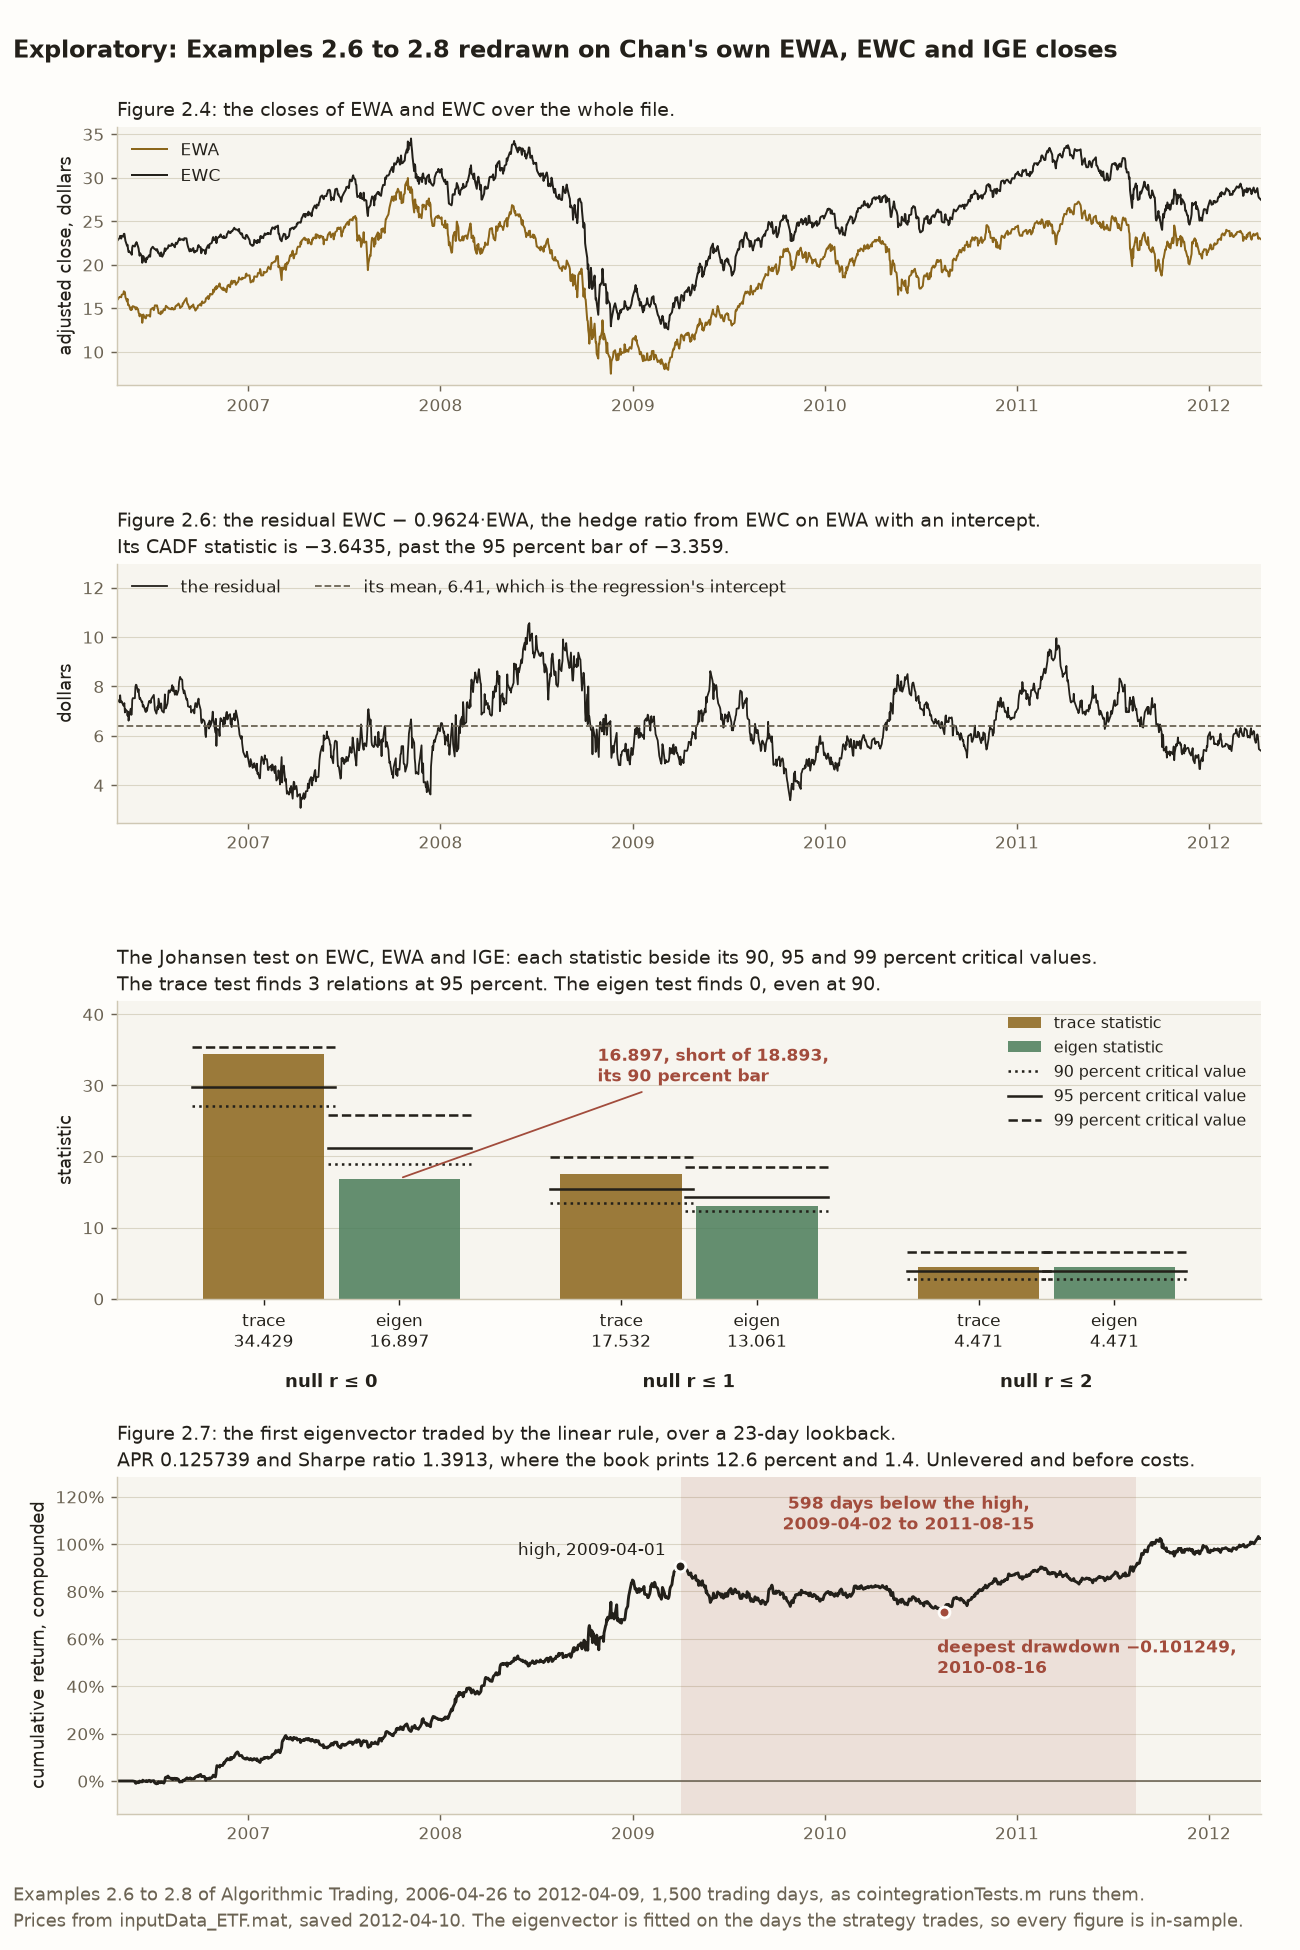
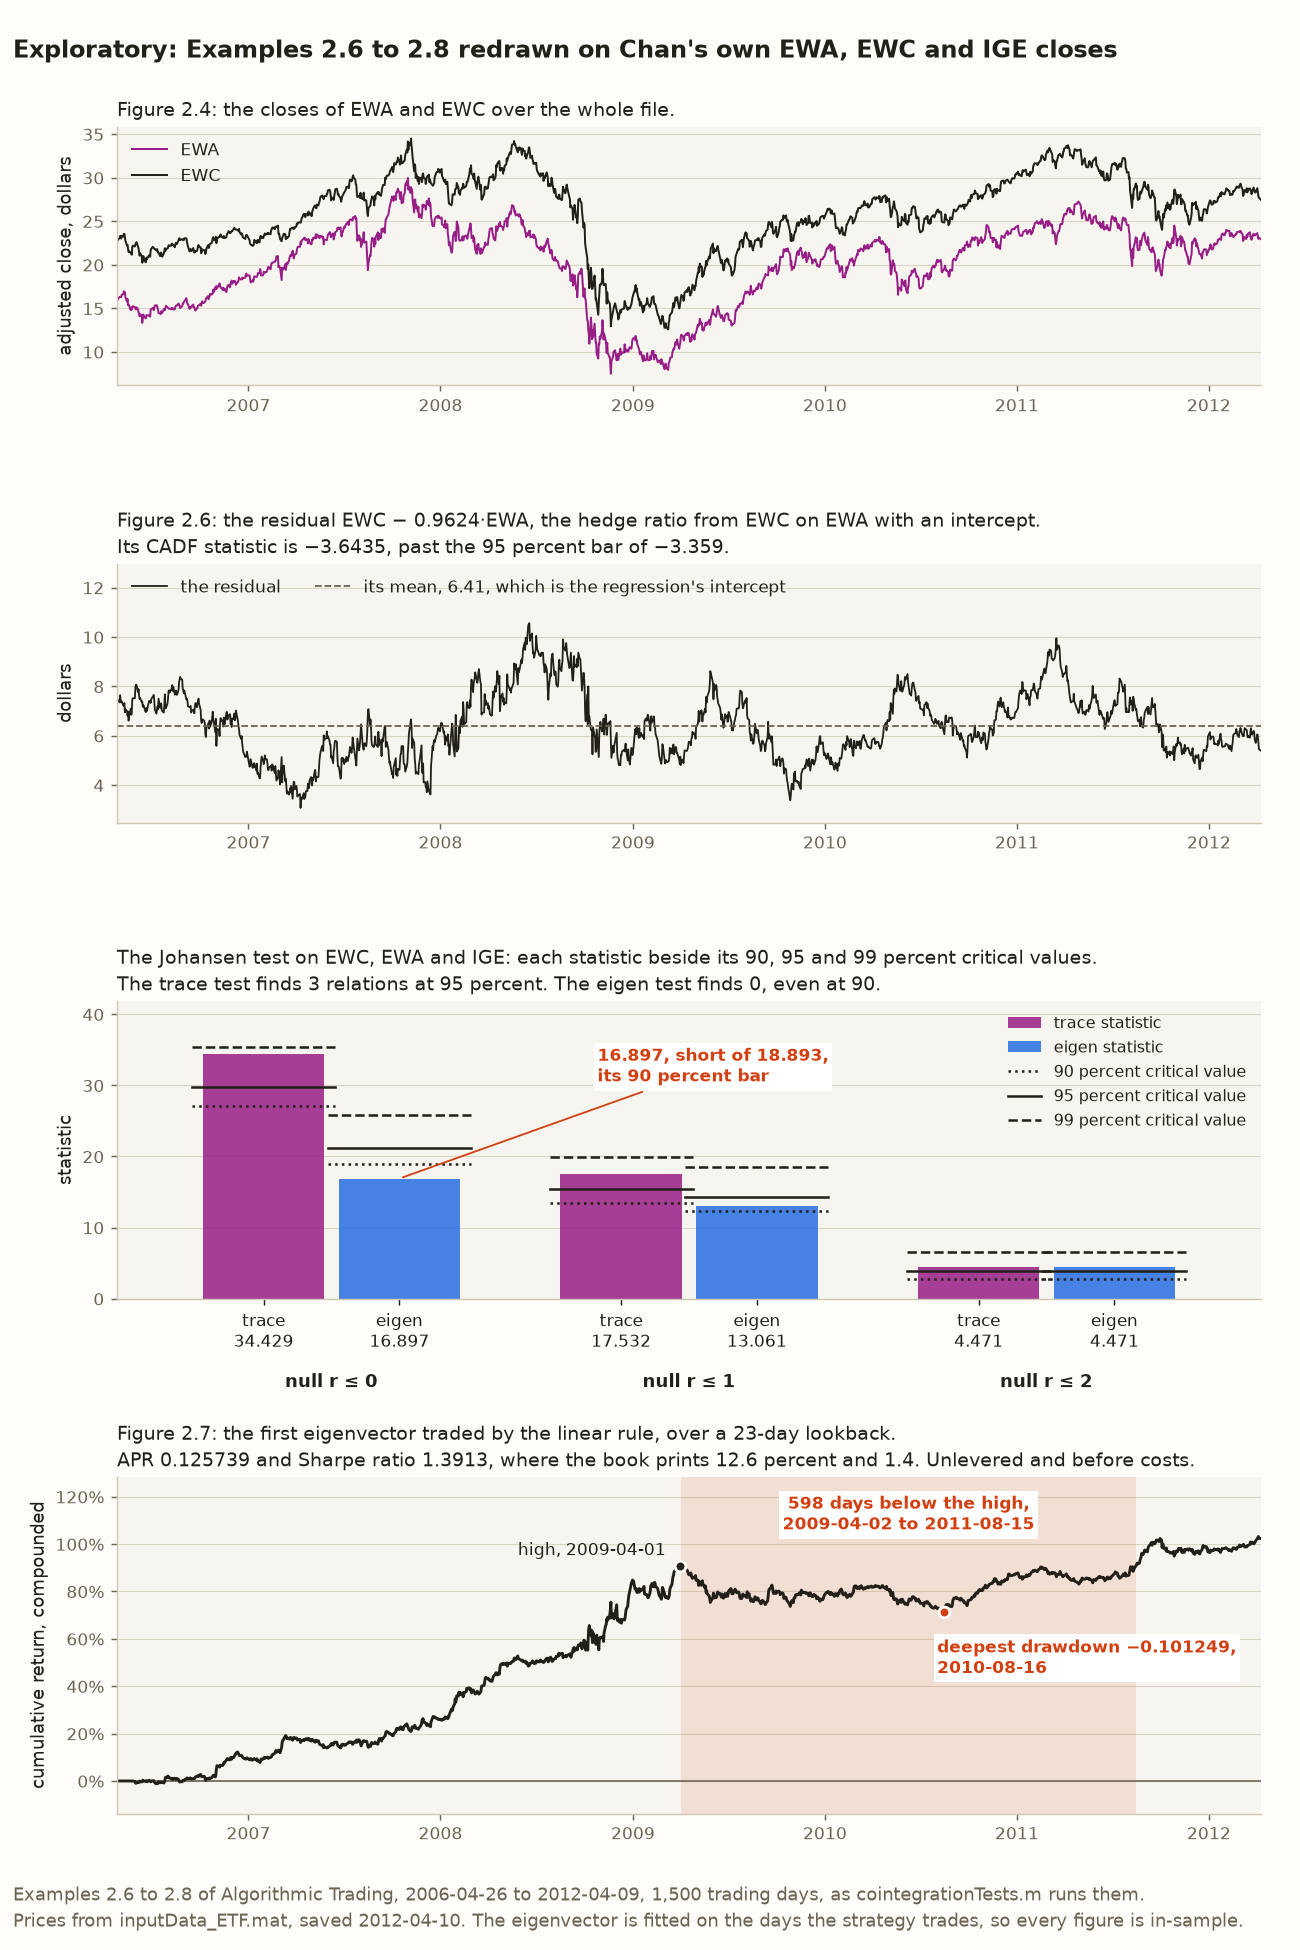
feat(palette): move the Johansen ETF post's figures to the colour-blind-safe palette (#746)
The chart and the two whiteboard sketches in blog/johansen-etf-lessons.md now
draw in chan.palette's berry, blue and vermilion instead of the shared brass,
green and red. The sketch module hands chan.palette.INKS to the renderer, and
a new test reads each GIF's palette, fresh and committed, so a sketch drawn on
the old inks fails on any platform. The three vermilion labels inside the
chart's axes sit on white boxes, because vermilion reaches only 4.30 to 1 on
the axes' ground. The alt text names the new colours.

Part of #637

diff --git a/tests/test_etf_cointegration_whiteboard.py b/tests/test_etf_cointegration_whiteboard.py
@@ -46,6 +46,7 @@ import pytest
 from PIL import Image
 
 from chan import etf_cointegration_whiteboard as sketches
+from chan import regime_figure
 from chan import usdcad_tests_whiteboard as whiteboard
 from chan.etf_cointegration import etf_cointegration, read_sources
 from chan.etf_cointegration_whiteboard import (
@@ -60,8 +61,9 @@ from chan.etf_cointegration_whiteboard import (
     make_etf_cointegration_whiteboards,
     scenes,
 )
+from chan.palette import ACCENT, GOOD, INKS, LOST
 from chan.paths import FIGURES_DIR, REPO_ROOT
-from chan.regime_figure import ACCENT, GOOD, INK, LOST, MUTED
+from chan.regime_figure import INK, MUTED
 from chan.usdcad_tests_whiteboard import (
     HEIGHT,
     HOLD_MS,
@@ -171,6 +173,24 @@ def _durations(path) -> list[int]:
         return found
 
 
+def _rgb(ink: str) -> tuple[int, ...]:
+    return tuple(round(255 * channel) for channel in matplotlib.colors.to_rgb(ink))
+
+
+def _assert_the_new_inks(path) -> None:
+    """``render`` maps every frame onto the palette of the inks it is handed,
+    and defaults to the shared brass, green and red. A sketch drawn without
+    :data:`chan.palette.INKS` carries those colours whatever its strokes asked
+    for. The byte comparison that would notice runs only on macOS arm64, and
+    this check runs everywhere."""
+    with Image.open(path) as image:
+        flat = image.getpalette()
+    assert flat == whiteboard.palette(INKS).getpalette(), path.name
+    colours = {tuple(flat[i : i + 3]) for i in range(0, len(flat), 3)}
+    for old in (regime_figure.ACCENT, regime_figure.GOOD, regime_figure.LOST):
+        assert _rgb(old) not in colours, (path.name, old)
+
+
 def _alt(text: str, scene) -> str:
     match = re.search(rf"!\[([^\]]+)\]\(\.\./docs/figures/{re.escape(gif_name(scene))}\)", text)
     assert match, scene.slug
@@ -200,8 +220,8 @@ class TestTheScenes:
                 assert stroke.points >= stroke.frames, (scene.title, stroke.gid)
 
     def test_neither_carries_a_tint(self, every) -> None:
-        """A pale tint needs a green edge to read, as the equity seasonals
-        module's ``_tinted`` draws. These two carry none, so none is owed."""
+        """A pale tint needs an edge in its full ink to read, as the equity
+        seasonals module's ``_tinted`` draws. These two carry none, so none is owed."""
         assert [scene.fills for scene in every] == [[], []]
 
 
@@ -263,6 +283,10 @@ class TestTheGifs:
         for path in gifs:
             assert path.stat().st_size < 1_000_000, path.name
 
+    def test_each_is_drawn_on_the_palette_of_the_new_inks(self, gifs) -> None:
+        for path in gifs:
+            _assert_the_new_inks(path)
+
     def test_two_draws_give_the_same_bytes(self, gifs, tmp_path, stack) -> None:
         again = make_etf_cointegration_whiteboards(out_dir=tmp_path, stack=stack)
         for first, second in zip(gifs, again, strict=True):
@@ -270,6 +294,10 @@ class TestTheGifs:
 
 
 class TestTheCommittedGifs:
+    def test_each_is_drawn_on_the_palette_of_the_new_inks(self) -> None:
+        for name in GIFS:
+            _assert_the_new_inks(FIGURES_DIR / name)
+
     def test_each_has_the_size_frames_loop_and_timing_of_a_fresh_draw(self, every) -> None:
         for name, scene in zip(GIFS, every, strict=True):
             steps = timeline(scene)
@@ -414,7 +442,7 @@ class TestTheStackSketch:
 
     def test_its_colours(self, every) -> None:
         """The first piece is black in both columns, the two the trace test
-        adds are brown, the verdicts are red and green, and the bars and floor
+        adds are berry, the verdicts are vermilion and blue, and the bars and floor
         are black and grey. Each verdict is said in words too."""
         scene = every[0]
         colours = {s.gid: s.color for s in scene.strokes}

diff --git a/tests/test_etf_cointegration_figures.py b/tests/test_etf_cointegration_figures.py
@@ -46,8 +46,9 @@ from chan.etf_cointegration_figures import (
     residual,
 )
 from chan.johansen import Johansen
+from chan.palette import ACCENT, GOOD, LOST
 from chan.paths import FIGURES_DIR
-from chan.regime_figure import ACCENT, GOOD, INK, LOST
+from chan.regime_figure import INK
 from chan.series import WindowCrossesScaleBreak
 from chan.vintage import VintageUnavailable
 from tests.test_etf_cointegration import SPEC
@@ -457,7 +458,7 @@ class TestTheReturn:
         assert texts["trough-label"] == "deepest drawdown −0.101249,\n2010-08-16", SPEC
 
     def test_the_spell_and_the_trough_wear_lost_and_the_high_the_lines_colour(self, axes) -> None:
-        """Swapped, the red mark would sit on the high and say the drawdown is there."""
+        """Swapped, the vermilion mark would sit on the high and say the drawdown is there."""
         ax = axes["returns"]
         lines, notes = _by_gid(ax.lines), _by_gid(ax.texts)
         assert same_color(to_rgb(_by_gid(ax.patches)["spell"].get_facecolor()), LOST)
@@ -467,6 +468,24 @@ class TestTheReturn:
             assert same_color(lines[gid].get_markerfacecolor(), colour), gid
             assert same_color(notes[f"{gid}-label"].get_color(), colour), gid
         assert not same_color(lines["high"].get_markerfacecolor(), LOST)
+
+    @pytest.mark.parametrize(
+        "panel, gid",
+        [
+            ("statistics", "eigen-short-label"),
+            ("returns", "spell-label"),
+            ("returns", "trough-label"),
+        ],
+    )
+    def test_each_vermilion_label_sits_on_a_white_box(self, axes, panel, gid) -> None:
+        """``LOST`` reaches only 4.30 to 1 on the axes' darker ground, short of the
+        4.5 a label needs, and clears it on white, as ``tests/test_palette.py``
+        pins. So each label drawn in it inside the axes carries an opaque white box."""
+        note = _by_gid(axes[panel].texts)[gid]
+        assert same_color(note.get_color(), LOST), gid
+        box = note.get_bbox_patch()
+        assert box is not None, gid
+        assert same_color(box.get_facecolor(), "white"), gid
 
     def test_each_label_points_at_the_row_it_names(self, axes, result) -> None:
         """The text alone would pass with the arrow anchored at the wrong day."""

diff --git a/src/chan/etf_cointegration_figures.py b/src/chan/etf_cointegration_figures.py
@@ -56,9 +56,10 @@ from chan.etf_cointegration import (
     read_sources,
 )
 from chan.matlab_helpers import calculate_max_dd, drawdown_path
+from chan.palette import ACCENT, GOOD, LOST
 from chan.paths import FIGURES_DIR
 from chan.pead_figures import _signed, longest_spell
-from chan.regime_figure import ACCENT, GOOD, INK, LOST, MUTED, RULE, SURFACE
+from chan.regime_figure import INK, MUTED, RULE, SURFACE
 from chan.series import WindowCrossesScaleBreak
 from chan.vintage import VintageEntry, VintageUnavailable
 
@@ -70,6 +71,10 @@ LEVELS = ((90, ":"), (95, "-"), (99, "--"))
 #: Each statistic's bars: its name, its fill, and how far its bar sits from the group's centre.
 STATISTICS = (("trace", ACCENT, -0.19), ("eigen", GOOD, 0.19))
 BAR_WIDTH = 0.34
+#: The white box under a label drawn in ``LOST`` inside the axes. The axes'
+#: ground is darker than the figure's, and ``LOST`` reaches only 4.30 to 1 on
+#: it, short of the 4.5 a label needs, as ``tests/test_palette.py`` pins.
+LABEL_BOX = {"boxstyle": "square,pad=0.2", "facecolor": "white", "edgecolor": "none"}
 
 
 def cumulative_return(result: EtfCointegration) -> np.ndarray:
@@ -175,6 +180,7 @@ def _statistics_panel(ax, result: EtfCointegration) -> None:
         fontsize=9.5,
         fontweight="bold",
         arrowprops={"arrowstyle": "-", "color": LOST, "lw": 1.0},
+        bbox=LABEL_BOX,
         gid="eigen-short-label",
     )
     handles = [
@@ -217,6 +223,7 @@ def _returns_panel(ax, days: pd.DatetimeIndex, result: EtfCointegration) -> None
         color=LOST,
         fontsize=9.5,
         fontweight="bold",
+        bbox=LABEL_BOX,
         gid="spell-label",
     )
     for gid, row, colour in (("high", spell.high, INK), ("trough", trough, LOST)):
@@ -250,6 +257,7 @@ def _returns_panel(ax, days: pd.DatetimeIndex, result: EtfCointegration) -> None
         color=LOST,
         fontsize=9.5,
         fontweight="bold",
+        bbox=LABEL_BOX,
         gid="trough-label",
     )
     span = cumret.max() - cumret.min()

diff --git a/src/chan/etf_cointegration_whiteboard.py b/src/chan/etf_cointegration_whiteboard.py
@@ -30,10 +30,12 @@ paragraph it draws.
    schematic.
 
 The drawing machinery is :mod:`chan.usdcad_tests_whiteboard`'s, reused rather
-than copied: its strokes, labels, timeline, renderer and palette, so these
-GIFs share that post's look, frame rate, pace and colours. Only the scenes and
-the file names are this module's. Each GIF is named :data:`GIF_PREFIX` plus
-the scene's slug.
+than copied: its strokes, labels, timeline and renderer, so these GIFs share
+that post's look, frame rate and pace. The colours are :mod:`chan.palette`'s
+berry, blue and vermilion rather than that post's brass, green and red, so the
+renderer is handed :data:`chan.palette.INKS`, without which every frame would
+be mapped onto the old colours. Only the scenes and the file names are this
+module's. Each GIF is named :data:`GIF_PREFIX` plus the scene's slug.
 
 The sketches are deterministic for the reason that module gives, so a redraw
 with no change is a no-op diff. Redraw both with::
@@ -48,8 +50,9 @@ from pathlib import Path
 
 from chan.etf_cointegration import EtfCointegration, etf_cointegration, read_sources
 from chan.johansen import LEVELS
+from chan.palette import ACCENT, GOOD, INKS, LOST
 from chan.paths import FIGURES_DIR
-from chan.regime_figure import ACCENT, GOOD, LOST, MUTED
+from chan.regime_figure import MUTED
 from chan.usdcad_tests_whiteboard import (
     Label,
     Scene,
@@ -293,7 +296,7 @@ def scenes(stack: TraceStack) -> tuple[Scene, ...]:
 
 def _write(scene: Scene, folder: Path) -> Path:
     frames = timeline(scene)
-    first, *rest = render(scene, frames)
+    first, *rest = render(scene, frames, INKS)
     path = folder / gif_name(scene)
     first.save(
         path,

diff --git a/blog/johansen-etf-lessons.md b/blog/johansen-etf-lessons.md
@@ -166,7 +166,7 @@ The trace test rejects all three nulls at 95 percent, so it counts three relatio
 
 The first eigenvalue alone is not strong enough to clear the eigen test’s bar, even at 90 percent. The trace test adds the second and third eigenvalues’ evidence to it, and the total clears the trace test’s bar at 95 percent. Evidence spread across several weak combinations can pass the trace test and fail the eigen test.
 
-![An animated whiteboard sketch titled “Weak pieces add up”, drawn stroke by stroke. Two columns stand on one grey floor, drawn to one scale. On the left, a black block marked “16.897”, labelled “eigen test, r ≤ 0”, stops just below a dashed line labelled “90% eigen bar, 18.893”, and red words say “falls short”. A grey arrow labelled “the same piece” carries the block to the right, where the same black block, marked “16.897” and labelled “trace test, r ≤ 0”, has two brown blocks stacked on it, “+ 13.061” and then “+ 4.471”. A dashed line labelled “95% trace bar, 29.796” crosses the stack at the top of the second block, and the green words “34.429 clears it” close the sketch.](../docs/figures/etf_cointegration_trace_stack.gif)
+![An animated whiteboard sketch titled “Weak pieces add up”, drawn stroke by stroke. Two columns stand on one grey floor, drawn to one scale. On the left, a black block marked “16.897”, labelled “eigen test, r ≤ 0”, stops just below a dashed line labelled “90% eigen bar, 18.893”, and vermilion words say “falls short”. A grey arrow labelled “the same piece” carries the block to the right, where the same black block, marked “16.897” and labelled “trace test, r ≤ 0”, has two berry blocks stacked on it, “+ 13.061” and then “+ 4.471”. A dashed line labelled “95% trace bar, 29.796” crosses the stack at the top of the second block, and the blue words “34.429 clears it” close the sketch.](../docs/figures/etf_cointegration_trace_stack.gif)
 
 Chan’s text reads these statistics differently. “Both Trace statistic and Eigen statistic tests conclude” that the triplet holds three relations at 95 percent (Chan, 2013, location 1337). The trace test does. The eigen test does not, and the script’s own printout already shows it. A reader who trusts Chan’s paragraph over the printout takes away a stronger result than the run gave.
 
@@ -176,7 +176,7 @@ On the pair, both tests agree at 95 percent. The trace test rejects r ≤ 0 with
 
 Chan reads the two relations as two hedge ratios, one from each order of the regression, “which are not necessarily reciprocal of each other” (Chan, 2013, location 1324). The test says something stronger. Two relations between two series is a full rank, r = n. A full rank means every combination of the two prices reverts, and holding EWA alone, a weight of one on EWA and zero on EWC, is one such combination. So the test is saying that each ETF reverts to a stable level on its own. The triplet’s trace count of three says the same of all three.
 
-![An animated whiteboard sketch titled “Every portfolio is a mix of the test’s two relations”, drawn stroke by stroke. It is schematic and carries none of the run’s figures. A grey axis across is labelled “shares of EWA” and a grey axis up is labelled “shares of EWC”. From where they cross, a black arrow labelled “relation 1” points down and to the right, and a black arrow labelled “relation 2” points up and to the right. A grey dashed line runs from each arrow’s tip, parallel to the other arrow. The two meet on the EWA axis, and the lower one is labelled “a mix of relations 1 and 2”. A thick brown arrow labelled “EWA alone” then runs along the EWA axis to where they meet, and the words “if both relations revert, so does EWA alone” close the sketch.](../docs/figures/etf_cointegration_two_relations.gif)
+![An animated whiteboard sketch titled “Every portfolio is a mix of the test’s two relations”, drawn stroke by stroke. It is schematic and carries none of the run’s figures. A grey axis across is labelled “shares of EWA” and a grey axis up is labelled “shares of EWC”. From where they cross, a black arrow labelled “relation 1” points down and to the right, and a black arrow labelled “relation 2” points up and to the right. A grey dashed line runs from each arrow’s tip, parallel to the other arrow. The two meet on the EWA axis, and the lower one is labelled “a mix of relations 1 and 2”. A thick berry arrow labelled “EWA alone” then runs along the EWA axis to where they meet, and the words “if both relations revert, so does EWA alone” close the sketch.](../docs/figures/etf_cointegration_two_relations.gif)
 
 *The sketch is schematic. Its two black arrows stand for the pair’s two relations, and their lengths and angles are not the run’s weights.*
 
